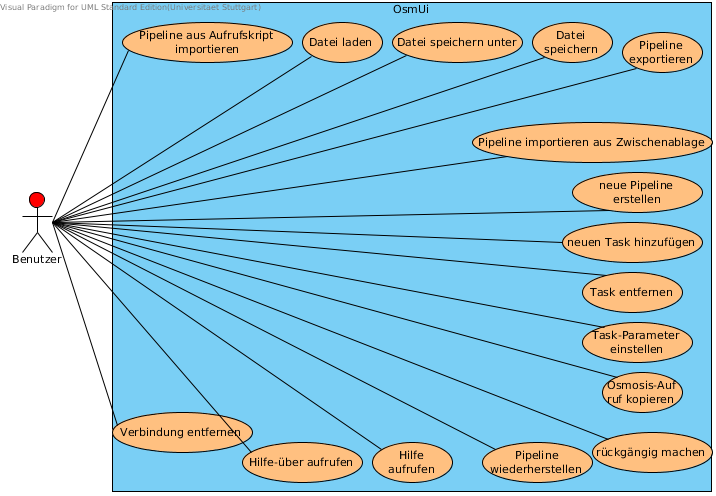
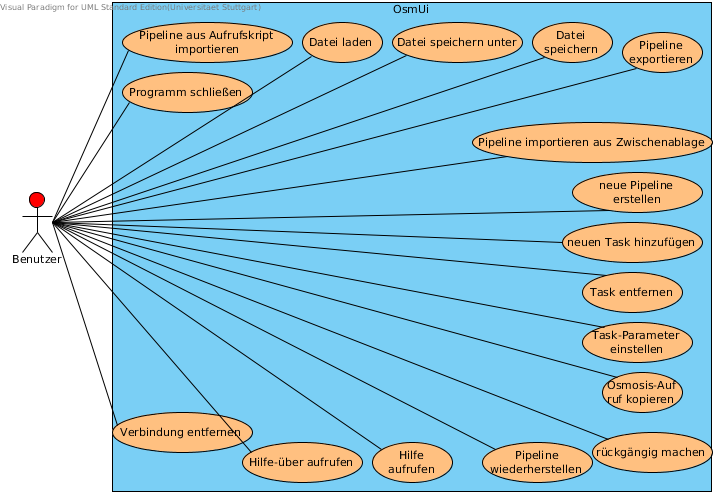
änderungen

Changed region(s): [[0.1536, 0.121, 0.3687, 0.2419]]

diff --git a/spezifikation_korr/spezifikation.tex b/spezifikation_korr/spezifikation.tex
@@ -588,6 +588,30 @@ Für alle Use Cases gilt: Der Benutzer hat das Programm auf seinem Computer inst
 \hline 
 \end{tabular} 
 \end{center}
+\subsubsection{Programm schließen}
+\begin{center}
+\begin{tabular}{|p{5cm}|p{10cm}|}
+\hline Name & \textbf{Programm schließen} \\ 
+\hline Ziel & OsmUi soll geschlossen werden\\ 
+\hline Vorbedingung & OsmUi ist geöffnet\\ 
+\hline Nachbedingung & OsmUi wurde geschlossen \\  
+\hline Akteur & Benutzer \\ 
+\hline Normalablauf & 1 Der Benutzer wählt Datei
+\newline 2 OsmUi zeigt den Menüeintrag Datei
+\newline 3 Der Benutzer wählt \glqq schließen''
+\newline 4 OsmUi schließt das Programm\\
+\hline Sonderfall 4a)& Die aktuelle Pipeline wurde noch nicht gespeichert
+\newline 4a.1 OsmUi zeigt eine Fehlermeldung
+\newline 4a.2 Der Benutzer wählt \glqq speichern''
+\newline 4a.3 $ \rightarrow$ Use Case speichern
+\newline 4a.4 $ \rightarrow$ Schritt 4\\
+\hline Sonderfall 4a2.a & 4a2a.1 Der Benutzer wählt \glqq nicht speichern''
+\newline 4a2a.2 OsmUi schließt ohne zu speichern\\
+\hline Sonderfall 4a2b & 4a2b.1 Der Benutzer wählt \glqq abbrechen''
+\newline OsmUi zeigt wieder die aktuelle Pipeline\\
+\hline
+\end{tabular} 
+\end{center}
 
 
 \section{Begriffslexikon}
